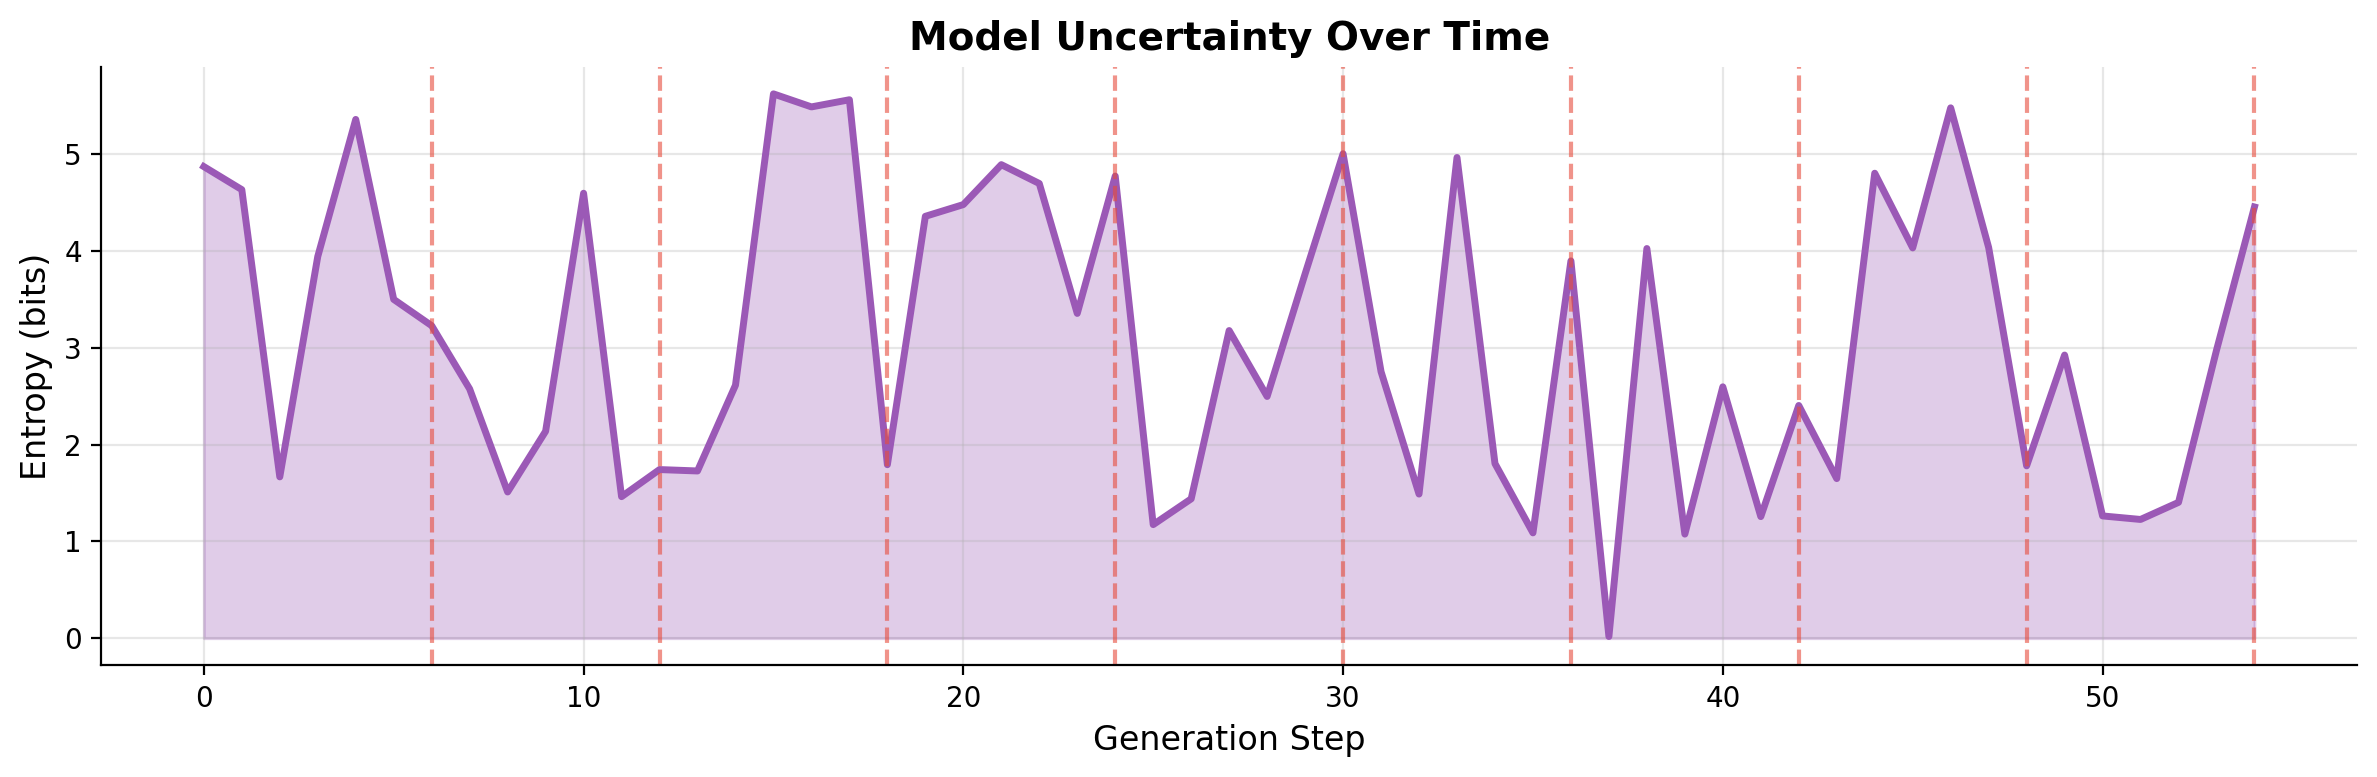
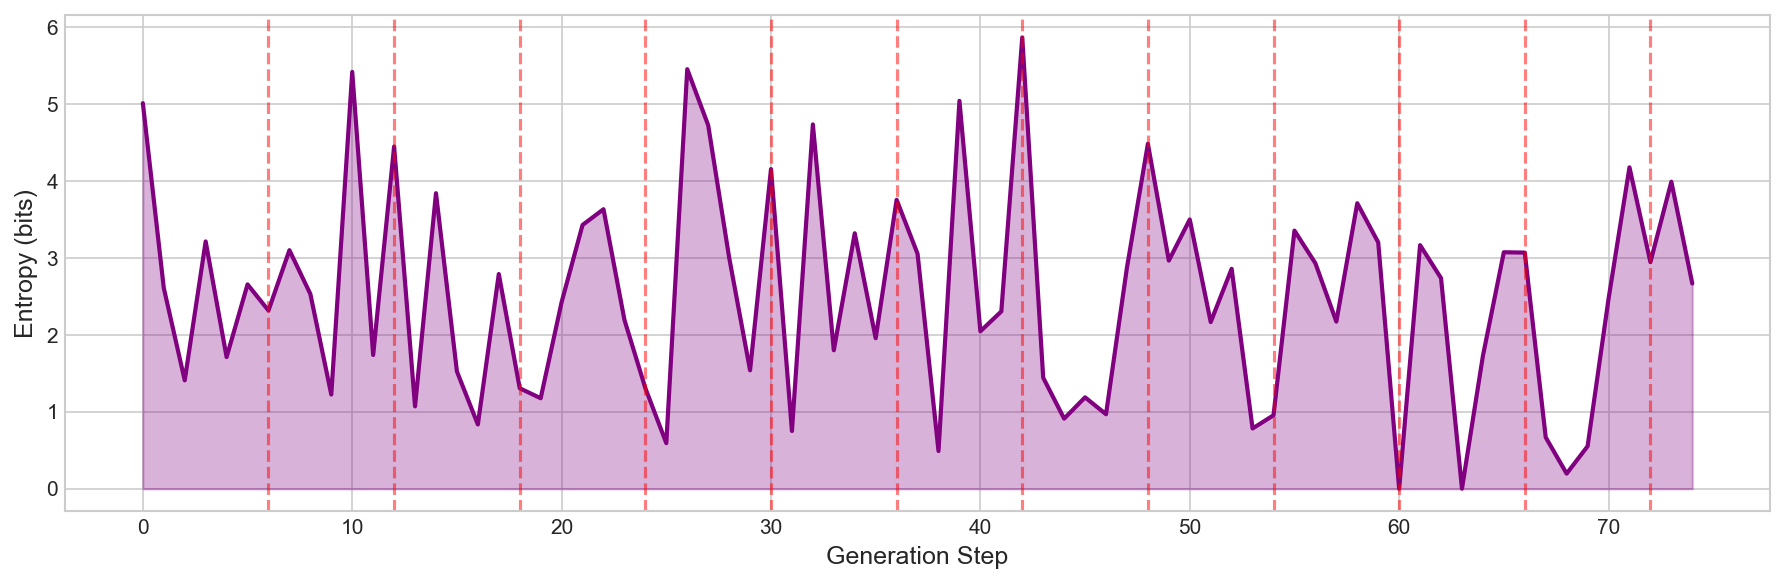
Restructure post: Queneau as main example, new visualizations

diff --git a/posts/clinamen-algorithm.html b/posts/clinamen-algorithm.html
@@ -115,24 +115,9 @@
 
 <p>The clinamen algorithm applies this principle to neural text generation. The constraint is temporal rather than lexical: not "never use the letter e" but "every sixth word must be a surprise."</p>
 
-<h2>An Example</h2>
-
-<p>Here's what the algorithm produces when given a simple literary prompt:</p>
-
-<div style="background: #f8f9fa; border-left: 4px solid var(--color-accent); padding: var(--spacing-md); margin: var(--spacing-lg) 0; font-family: Georgia, serif;">
-<p style="margin: 0; color: #666; font-size: 0.9em;">PROMPT:</p>
-<p style="margin: 0.5em 0 1em 0;"><em>"The old house stood at the edge of the forest, its windows"</em></p>
-<p style="margin: 0; color: #666; font-size: 0.9em;">GENERATED:</p>
-<p style="margin: 0.5em 0 0 0;">"The old house stood at the edge of the forest, its windows were dark and the only thing <span style="color: #e74c3c; font-weight: bold;">creeping</span> out from the woods was <span style="color: #e74c3c; font-weight: bold;">cinnamon</span>. A small, young <span style="color: #e74c3c; font-weight: bold;">Philip</span> would be seen walking, cropping his face, and <span style="color: #e74c3c; font-weight: bold;">seated</span> in the front of the <span style="color: #e74c3c; font-weight: bold;">picturesque</span> room."</p>
-</div>
-
-<p>The red words are the clinamen moments, where the algorithm forced the model off its expected path. Notice how the model wanted to say "a small, young <em>man</em>" but was forced to say "Philip" instead, or how it expected to continue with "the only thing <em>that</em>" but we inserted "creeping," which then cascades into the bizarre image of cinnamon creeping out of the woods.</p>
-
-<p>What interests me is how the model adapts. It doesn't break. The phrase "the only thing creeping out from the woods was cinnamon" is grammatically correct and even evocative, despite being semantically strange. The model finds a way to make the forced word fit, and in doing so produces something no one would have written deliberately.</p>
-
 <h2>Queneau's 100th Exercise</h2>
 
-<p>Since I mentioned the Oulipo, it seemed only right to apply the algorithm to Queneau himself. His <em>Exercises in Style</em> (1947) retells the same banal story—a man with a long neck on a bus, an argument, a button—in 99 different ways. Each version is a constraint: one is written as an official letter, another as a sonnet, another in pig latin.</p>
+<p>To test the algorithm, I applied it to Queneau himself. His <em>Exercises in Style</em> (1947) retells the same banal story—a man with a long neck on a bus, an argument, a button—in 99 different ways. Each version is a constraint: one is written as an official letter, another as a sonnet, another in pig latin.</p>
 
 <p>Here's the original "Notation," the baseline from which all variations depart:</p>
 
@@ -148,7 +133,9 @@
 <p style="margin: 0.5em 0 0 0;">"On the crowded bus. A man, about twenty-six, wearing a felt hat. His neck was curled up against a rock. <span style="color: #e74c3c; font-weight: bold;">Collapse</span>. The window shattered <span style="color: #e74c3c; font-weight: bold;">fresh</span> and cold, and the <span style="color: #e74c3c; font-weight: bold;">hour</span>-long flight to the <span style="color: #e74c3c; font-weight: bold;">Fairway</span> was interrupted. The <span style="color: #e74c3c; font-weight: bold;">forty</span>-five hour flight was <span style="color: #e74c3c; font-weight: bold;">decimated</span> in the night. <span style="color: #e74c3c; font-weight: bold;">Sit</span> back, in the dark <span style="color: #e74c3c; font-weight: bold;">pocket</span> of a small house, <span style="color: #e74c3c; font-weight: bold;">hold</span> the books and watch the <span style="color: #e74c3c; font-weight: bold;">solemn</span> lights."</p>
 </div>
 
-<p>The model starts with Queneau's scene and immediately swerves: the neck is "curled up against a rock," then "Collapse"—a single word like a stage direction. The bus becomes a flight, the window shatters "fresh and cold," and we end in "the dark pocket of a small house" watching "solemn lights." The narrative dissolves into images.</p>
+<p>The red words are the clinamen moments. The model starts with Queneau's scene and immediately swerves: the neck is "curled up against a rock," then "Collapse"—a single word like a stage direction. The bus becomes a flight, the window shatters "fresh and cold," and we end in "the dark pocket of a small house" watching "solemn lights."</p>
+
+<p>What interests me is how the model adapts. It doesn't break. Each forced word cascades into something new: "Collapse" becomes a scene transition, "Fairway" becomes a destination, "solemn" becomes an adjective for lights that makes strange sense. The model finds a way to make the forced word fit, and in doing so produces something no one would have written deliberately.</p>
 
 <p>Queneau would probably have found this amusing. His whole project was about showing that the same story contains infinite versions, and that constraints (write it as a sonnet, write it backwards, write it without the letter 'e') force new versions into existence. The clinamen is just another constraint: every sixth word must surprise.</p>
 
